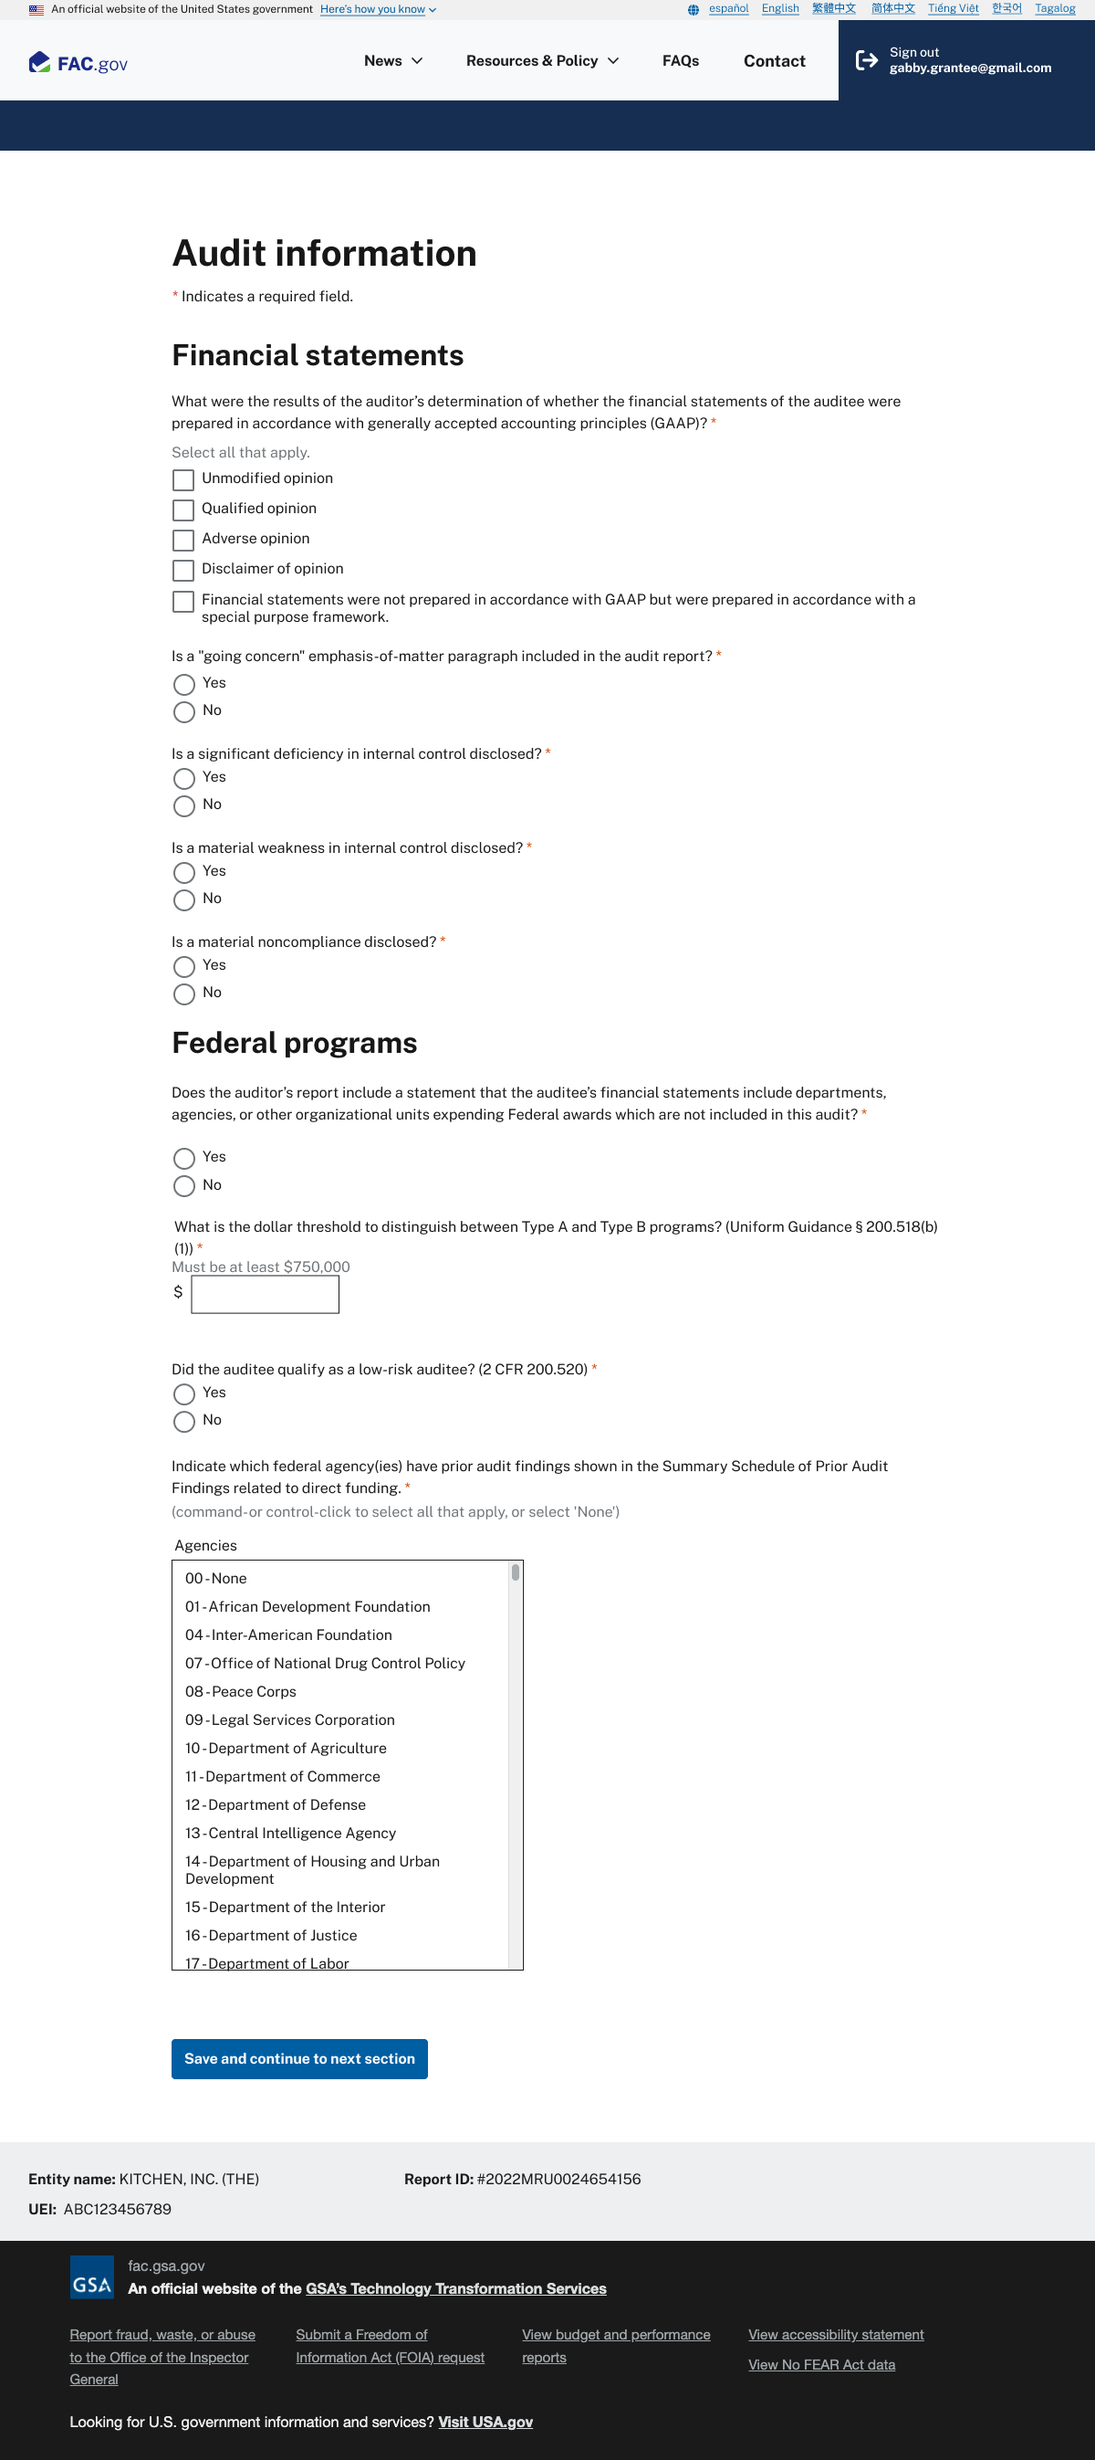
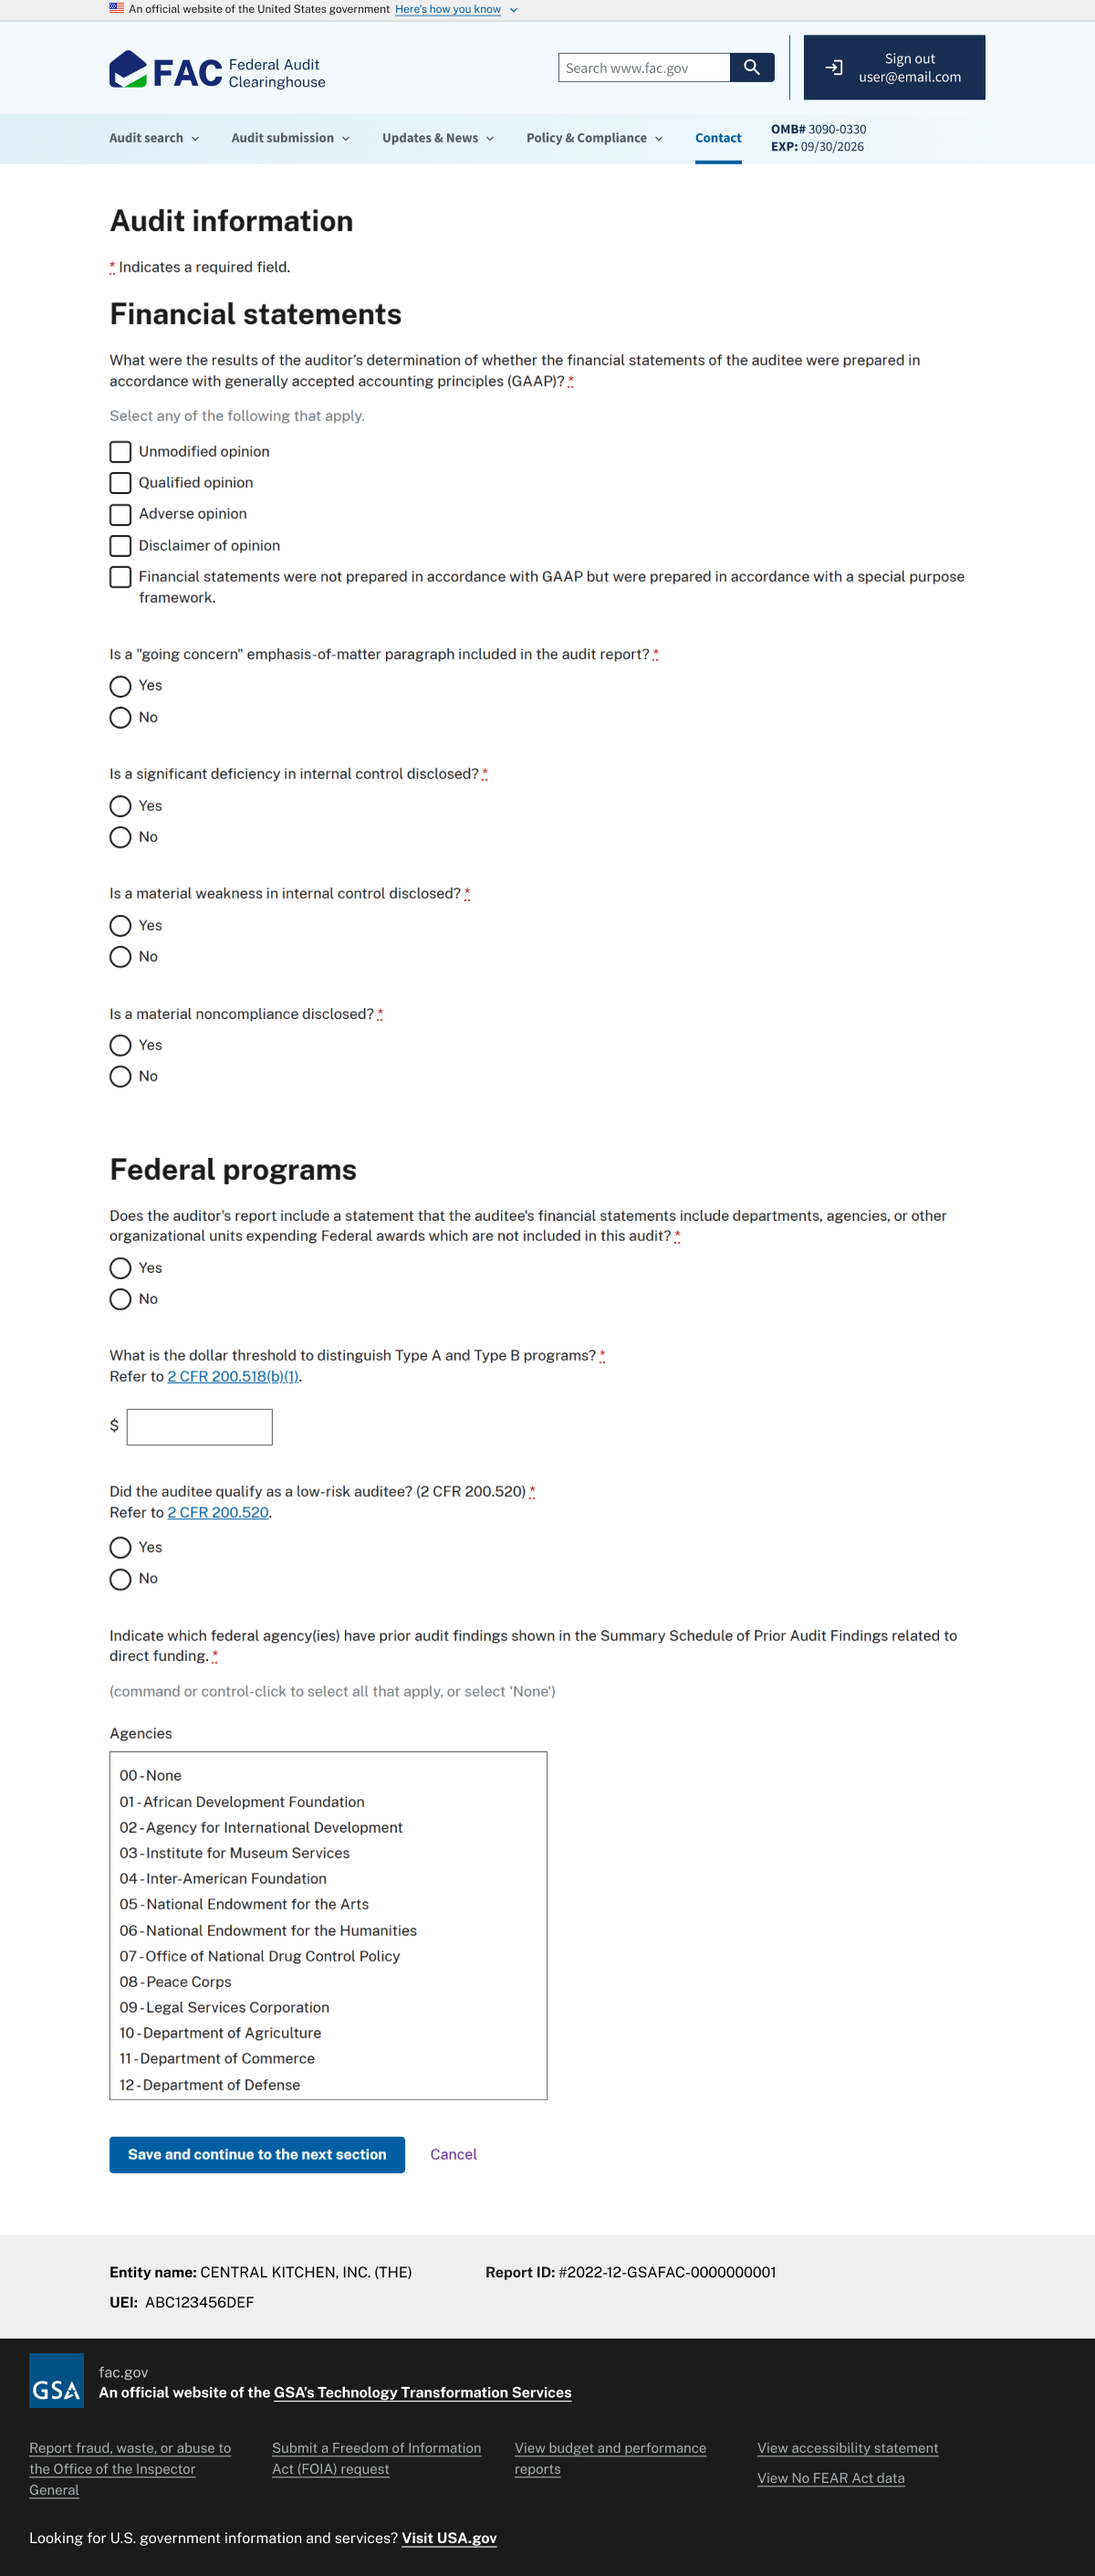
[FAC threshold] Update submission guide (copy and screenshots) (#174)
* Updates to submission guide

* updated screenshots

Changed region(s): [[0.0, 0.0, 1.0, 0.8419], [0.0, 0.8731, 1.0, 0.9978], [0.8325, 0.4677, 0.8633, 0.4989]]

diff --git a/src/audit-resources/how-to.md b/src/audit-resources/how-to.md
@@ -32,7 +32,10 @@ eleventyComputed:
 {# This has to be left aligned, or it won't convert to the h1 element. #}
 # Submitting single audit reports using the Federal Audit Clearinghouse
 
-        The Federal Audit Clearinghouse (FAC) is the place to submit federal grant audits. All entities that spend $750,000 or more in federal grant funds in a fiscal year must submit an audit.
+        The Federal Audit Clearinghouse (FAC) is the place to submit federal grant audits. Entities that spend federal grant funds are required to submit an audit if they meet the following spending thresholds:
+* $750,000 or more for Fiscal Years starting before October 1, 2024  
+* $1,000,000 or more for Fiscal Years starting on or after October 1, 2024
+
         
         Our goal is to make the single audit submission process as easy as possible. To complete your audit, you'll fill out a series of webforms and upload a PDF of your audit reporting package. You'll also submit the SF-SAC as a series of XLSX workbooks.
 

diff --git a/src/_collections/walkthrough/04-eligibility.md b/src/_collections/walkthrough/04-eligibility.md
@@ -7,11 +7,16 @@ alt_text: "A screenshot of the FAC submission eligibilty page. One multiple choi
 
 Before starting a new audit, you'll answer a few questions to confirm your entity must submit an audit.
 
-Per [2 CFR 200.501](https://www.ecfr.gov/current/title-2/section-200.501), the single audit submission process is for the following types of entities who spend $750,000 or more in Federal grant awards in a fiscal year:
+Per [2 CFR 200.501](https://www.ecfr.gov/current/title-2/section-200.501), the single audit submission process is for the following types of entities:
 * Non-profits
 * State and local governments
 * Institutions of higher education
 * Indian tribes or Tribal organizations
+
+Entities that spend federal grant funds are required to submit an audit if they meet the following spending thresholds:
+* $750,000 or more for Fiscal Years starting before October 1, 2024  
+* $1,000,000 or more for Fiscal Years starting on or after October 1, 2024
+
 
 ### ACEE submissions
 
